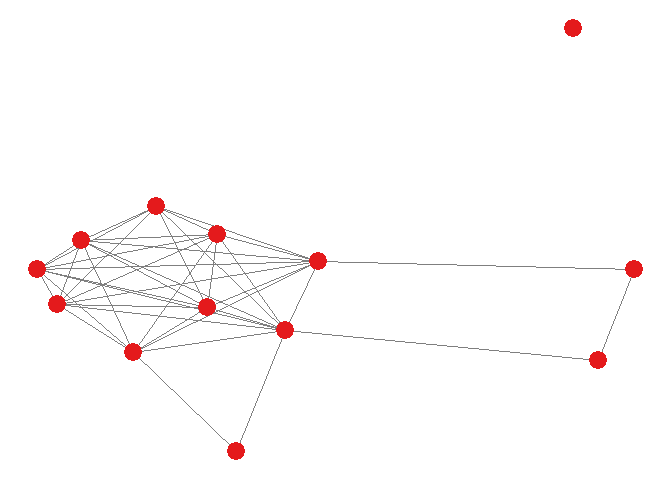
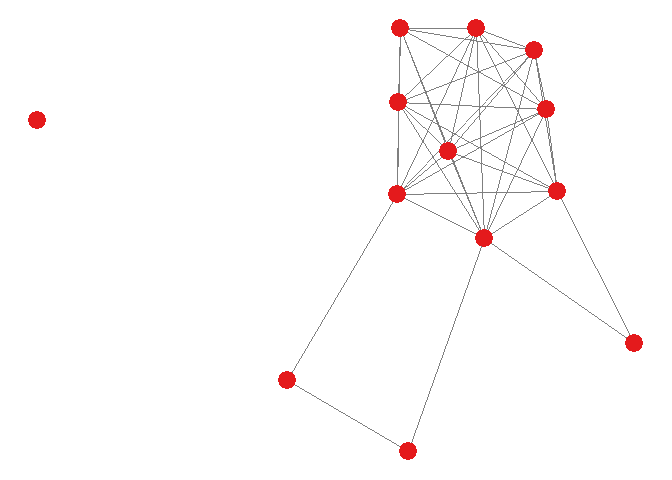
Version Update
Number of changes to functions - including centrality and plotting functions. Also extended readme

diff --git a/README.md b/README.md
@@ -98,9 +98,9 @@ head(DirectorInformation)[1:3,]
     ## 2                              None  director   Denmark  EC4 0DY
     ## 3 Deputy Chairman Hsbc Asia Pacific  director Hong Kong EC4Y 0DY
     ##          download.date
-    ## 1 25/03/2018  16:10:55
-    ## 2 25/03/2018  16:10:55
-    ## 3 25/03/2018  16:10:55
+    ## 1 27/03/2018  13:13:43
+    ## 2 27/03/2018  13:13:43
+    ## 3 27/03/2018  13:13:43
 
 ``` r
 #To extract director data for a list of company numbers - say all 
@@ -218,10 +218,10 @@ head(COMPANYcent)[1:3,]
     ## 00041424 00041424                   3                 2           0
     ## 00307529 00307529                   2                 2           0
     ## 00413828 00413828                  30                 8           0
-    ##                   Closeness        Eigenvector
-    ## 00041424 0.0263157894736842 0.0458439972408844
-    ## 00307529            0.03125 0.0182867941241636
-    ## 00413828 0.0344827586206897   0.66432441192865
+    ##          Closeness Eigenvector
+    ## 00041424    0.0263      0.0458
+    ## 00307529    0.0312      0.0183
+    ## 00413828    0.0345      0.6643
 
 ``` r
 DIRcent<-DirectorCentrality(DirNET)
@@ -233,14 +233,14 @@ head(DIRcent)[1:3,]
     ## ALLEN, Nicholas Graham       ALLEN, Nicholas Graham                  36
     ## ALLGROVE, Jeffrey William ALLGROVE, Jeffrey William                  43
     ## ALLISON, James Brian           ALLISON, James Brian                  20
-    ##                           Binary.Degree.All      Betweenness
-    ## ALLEN, Nicholas Graham                   29 21.4444444444444
-    ## ALLGROVE, Jeffrey William                39 68.5333333333333
-    ## ALLISON, James Brian                     20                0
-    ##                                     Closeness       Eigenvector
-    ## ALLEN, Nicholas Graham    0.00325732899022801 0.282891445499302
-    ## ALLGROVE, Jeffrey William 0.00340136054421769  0.36940300331036
-    ## ALLISON, James Brian      0.00285714285714286 0.183702623970845
+    ##                           Binary.Degree.All Betweenness Closeness
+    ## ALLEN, Nicholas Graham                   29     21.4444    0.0033
+    ## ALLGROVE, Jeffrey William                39     68.5333    0.0034
+    ## ALLISON, James Brian                     20      0.0000    0.0029
+    ##                           Eigenvector
+    ## ALLEN, Nicholas Graham         0.2829
+    ## ALLGROVE, Jeffrey William      0.3694
+    ## ALLISON, James Brian           0.1837
 
 #### Network properties
 
@@ -252,6 +252,7 @@ head(COMPANYprop)
 ```
 
 
+    ##                       One-Mode Company Network
     ## id                    One-Mode Company network
     ## Size                                        13
     ## Density                              0.5128205
@@ -275,27 +276,49 @@ head(DIRprop)
 
 ### Plot Networks
 
-The following function create plots of various networks. The TRUE/FALSE option indivates whether node labels should be included in the plots or not. The network plots are created from a list of company numbers for a quick inspection of the networks. There are a number of other commands and packages that can be used to create high quality network visualsiations from the network objects in R.
+The following function create plots of various networks. The TRUE/FALSE option indivates whether node labels should be included in the plots or not. The network plots are created from a list of company numbers for a quick inspection of the networks. There are a number of other commands and packages that can be used to create high quality network visualsiations from the network objects in R. You can also specify the node size - with the default being size 6. In the following examples we use the default.
 
 ``` r
 #Interlocking Directorates Plot
-InterlockNetworkPLOT(as.character(CompanySearchList$company.number),mkey,FALSE)
+InterlockNetworkPLOT(as.character(CompanySearchList$company.number),mkey,FALSE,NodeSize = 6)
 ```
-
 
 ![](README_files/figure-markdown_github/ploti-1.png)
 
 ``` r
 #Directors Plot
-DirectorNetworkPLOT(as.character(CompanySearchList$company.number),mkey,FALSE)
+DirectorNetworkPLOT(as.character(CompanySearchList$company.number),mkey,FALSE,NodeSize = 6)
 ```
+
 
 ![](README_files/figure-markdown_github/plotd-1.png)
 
 ``` r
 #Company Plot
-CompanyNetworkPLOT(as.character(CompanySearchList$company.number,mkey,FALSE)
+CompanyNetworkPLOT(as.character(CompanySearchList$company.number),mkey,FALSE,NodeSize = 6)
 ```
 
 
 ![](README_files/figure-markdown_github/plotc-1.png)
+
+You can also create grid plots - showing a plot of all three networks on a single grid using the `cowplot` library. In the example below we plot the networks in a grid, setting node size to degree centrality.
+
+``` r
+##Load cowplot library
+library(cowplot)
+
+##Create plot objects with node size based on centrality
+interlock.plot<-InterlockNetworkPLOT(as.character(CompanySearchList$company.number),
+                                     mkey,FALSE,NodeSize = "CENTRALITY")
+director.plot<-DirectorNetworkPLOT(as.character(CompanySearchList$company.number),
+                                   mkey,FALSE,NodeSize = "CENTRALITY")
+company.plot<-CompanyNetworkPLOT(as.character(CompanySearchList$company.number), 
+                                 mkey,FALSE,NodeSize = "CENTRALITY")
+
+##Plot as a grid
+plot_grid(interlock.plot,director.plot,company.plot,
+          labels=c("Interlocks","Directors","Companies"))
+```
+
+
+![](README_files/figure-markdown_github/COWplot-1.png)
